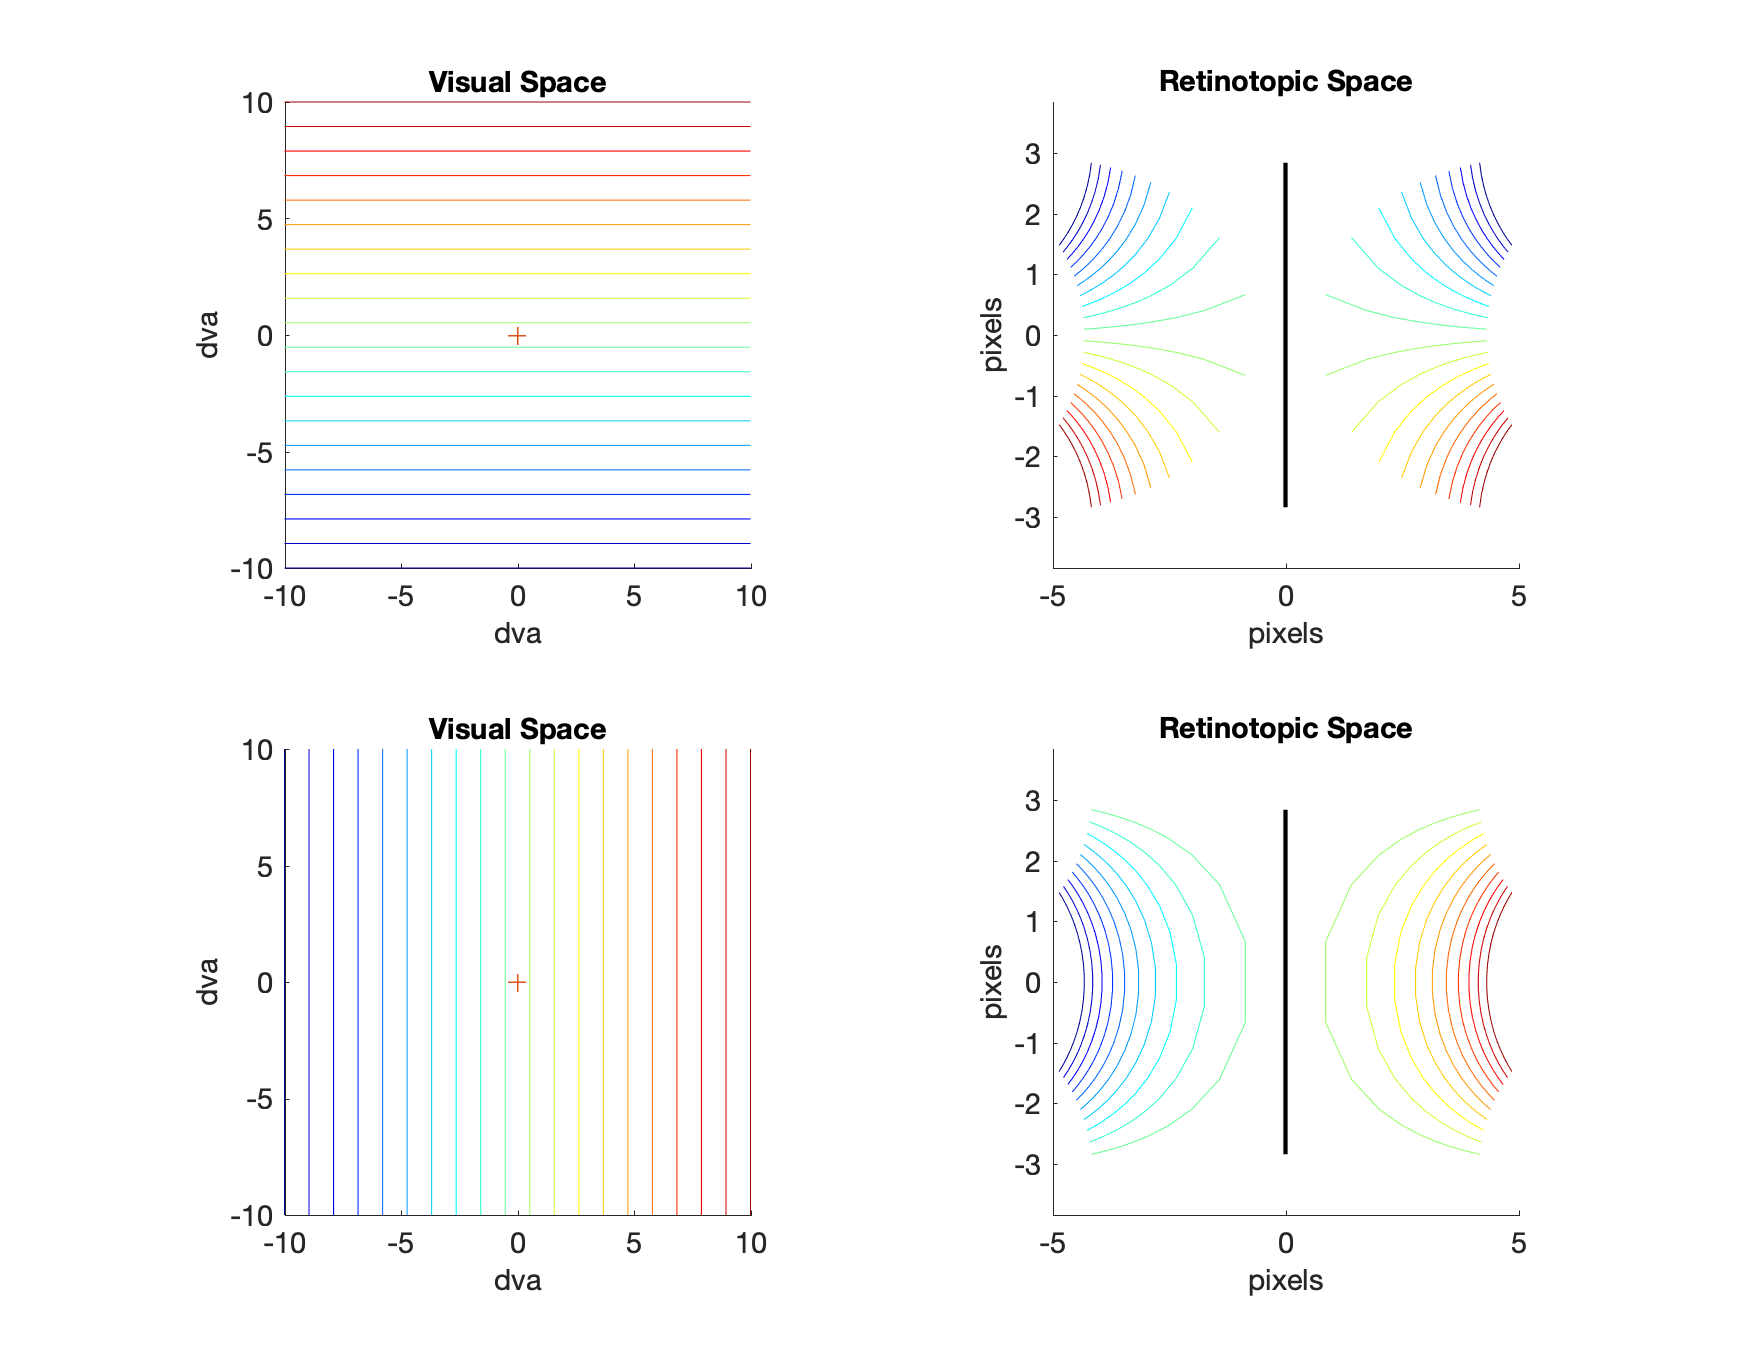
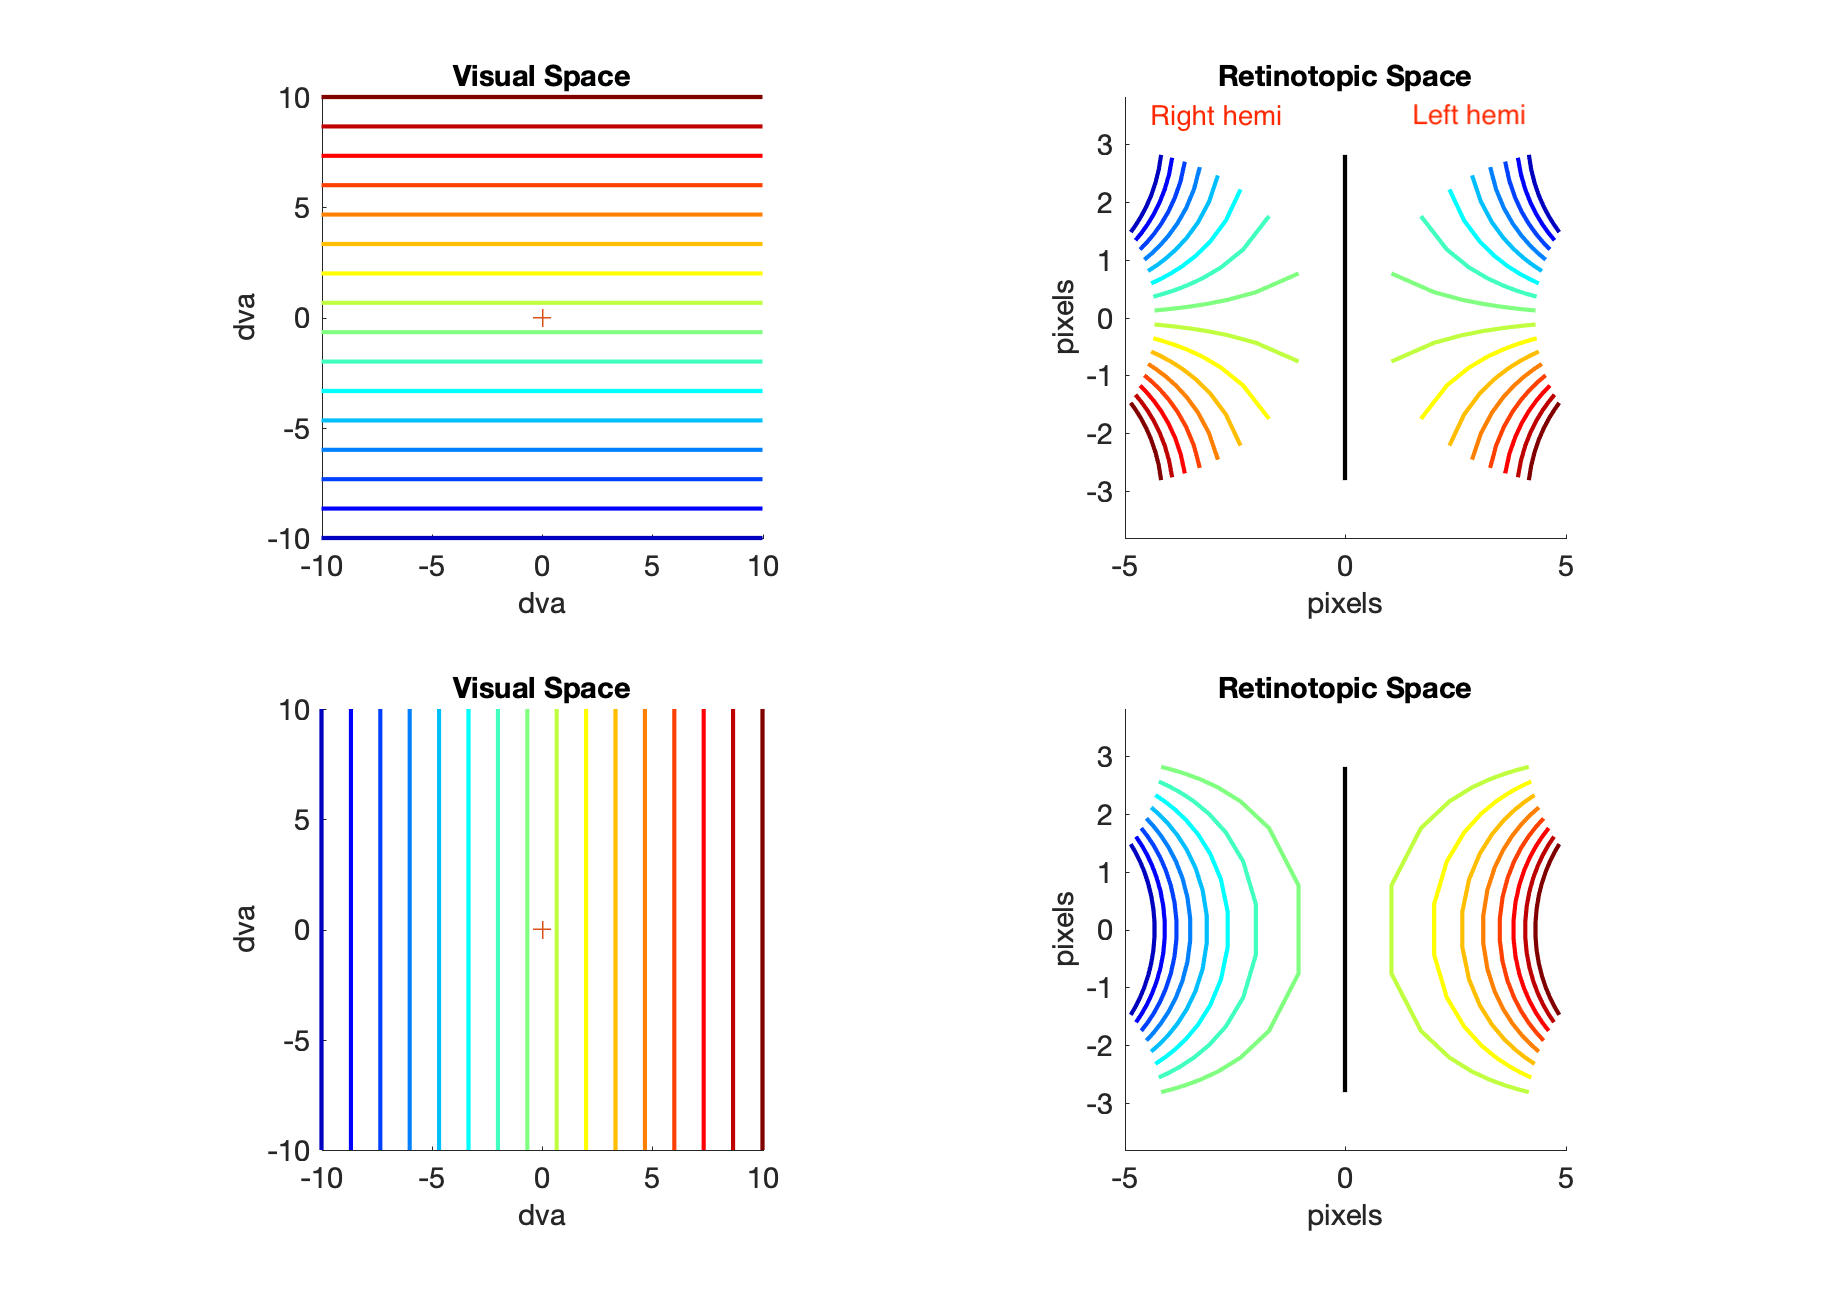
Improved DemoGrid figure

diff --git a/RetinoModel.m b/RetinoModel.m
@@ -73,8 +73,7 @@ n = size(u,2);
 col = jet(n);
 for i = 1:n
     subplot(221)
-    %  plot(u(:,i),v(:,i),'.','Color',col(i,:));
-    plot(u(i,:),v(i,:),'-','Color',col(i,:));
+    plot(u(i,:),v(i,:),'-','Color',col(i,:),'LineWidth',2);
     
     
     if i == 1
@@ -88,8 +87,8 @@ for i = 1:n
     hold on
     in1 = find(x(i,:)<0);
     in2 = find(x(i,:)>0);
-    plot(x(i,in1),y(i,in1),'-','Color',col(i,:)); hold on
-    plot(x(i,in2),y(i,in2),'-','Color',col(i,:));
+    plot(x(i,in1),y(i,in1),'-','Color',col(i,:),'LineWidth',2); hold on
+    plot(x(i,in2),y(i,in2),'-','Color',col(i,:),'LineWidth',2);
     
     
     if i ==1
@@ -102,9 +101,7 @@ for i = 1:n
     
     
     subplot(223)
-    plot(u(:,i),v(:,i),'-','Color',col(i,:));
-    %  plot(u(i,:),v(i,:),'.','Color',col(i,:));
-    
+    plot(u(:,i),v(:,i),'-','Color',col(i,:),'LineWidth',2);
     
     if i == 1
         axis square; box off
@@ -115,8 +112,8 @@ for i = 1:n
     
     subplot(224)
     hold on
-    plot(x(:,i),y(:,i),'-','Color',col(i,:));
-    %plot(x(i,:),y(i,:),'.','Color',col(i,:));
+    plot(x(:,i),y(:,i),'-','Color',col(i,:),'LineWidth',2);
+    
     
     
     if i ==1

diff --git a/DEMO.m b/DEMO.m
@@ -13,10 +13,10 @@
 %% Test the model using a grid
 
 % Generate a grid in the visual space
-[U V] = meshgrid(linspace(-10,10,20),linspace(-10,10,20));
+[U V] = meshgrid(linspace(-10,10,16),linspace(-10,10,16));
 
 % Generate a set of parameters for the model
-A = 1; Bx = 1.8; By=2; Angle = 0; U0 = 0; V0 = 0;
+A = 1; Bx = 3; By=2; Angle = 0; U0 = 0; V0 = 0;
 test_param = [A Bx By Angle U0 V0];
 
 % Run the model and display results
